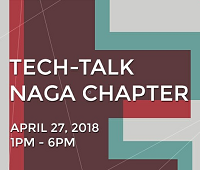
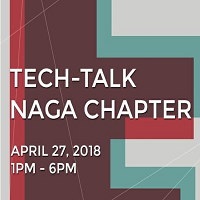
fix map and thumbnail
fix google map embed and change thumbnail image size

diff --git a/index.html b/index.html
@@ -10,7 +10,7 @@
     <meta content="TechTalk - Bicol IT Naga Chapter, April 27, 2018, 1pm - 6pm, 
          Southeast Asian Institute of Computer Technology (SEAict), Ground Floor Camarines Sur Trade and Investment Center,Naga City" property="og:description">
     <meta content="Bicol IT, web hosting, tech talk, meetup, startup, twitter bootstrap, full stack technologies, ruby on rails, adobe photoshop, freelancing, it certification, professional enhancement" name="keywords">
-    <meta property="og:image" content="https://raw.githubusercontent.com/bicolIT/bicolit.github.io/e5c001150b3e6238c4ef12ee5a55f9b7e654ad68/images/thumbnail/nagatechtalk.png" />
+     <!--meta property="og:image" content="https://raw.githubusercontent.com/bicolIT/bicolit.github.io/e5c001150b3e6238c4ef12ee5a55f9b7e654ad68/images/thumbnail/nagatechtalk.png" />-->
   
     <!-- Meta -->
     <meta content="http://bicolit.org/images/thumbnail/nagatechtalk.png" property="og:image">
@@ -291,7 +291,7 @@
 
           <!-------- VENUE -------->
           <h2>Our Venue</h2>
-          <iframe src="https://www.google.com/maps/embed?pb=!1m14!1m8!1m3!1d15510.324347288566!2d123.1936073!3d13.6223781!3m2!1i1024!2i768!4f13.1!3m3!1m2!1s0x0%3A0x27071bcb4e670e31!2sSoutheast+Asian+Institute+of+Computer+Technology!5e0!3m2!1sen!2sph!4v1523566793429" width="600" height="450" frameborder="0" style="border:0" allowfullscreen></iframe>
+          <iframe src="https://www.google.com/maps/embed?pb=!1m18!1m12!1m3!1d3877.5723878865847!2d123.19446680193387!3d13.622908491279789!2m3!1f0!2f0!3f0!3m2!1i1024!2i768!4f13.1!3m3!1m2!1s0x0%3A0x0!2zMTPCsDM3JzIwLjkiTiAxMjPCsDExJzM2LjYiRQ!5e0!3m2!1sen!2sph!4v1524408780421" width="600" height="450" frameborder="0" style="border:0" allowfullscreen></iframe>
           <br />
           <br />
           <h2>Contacts</h2>
